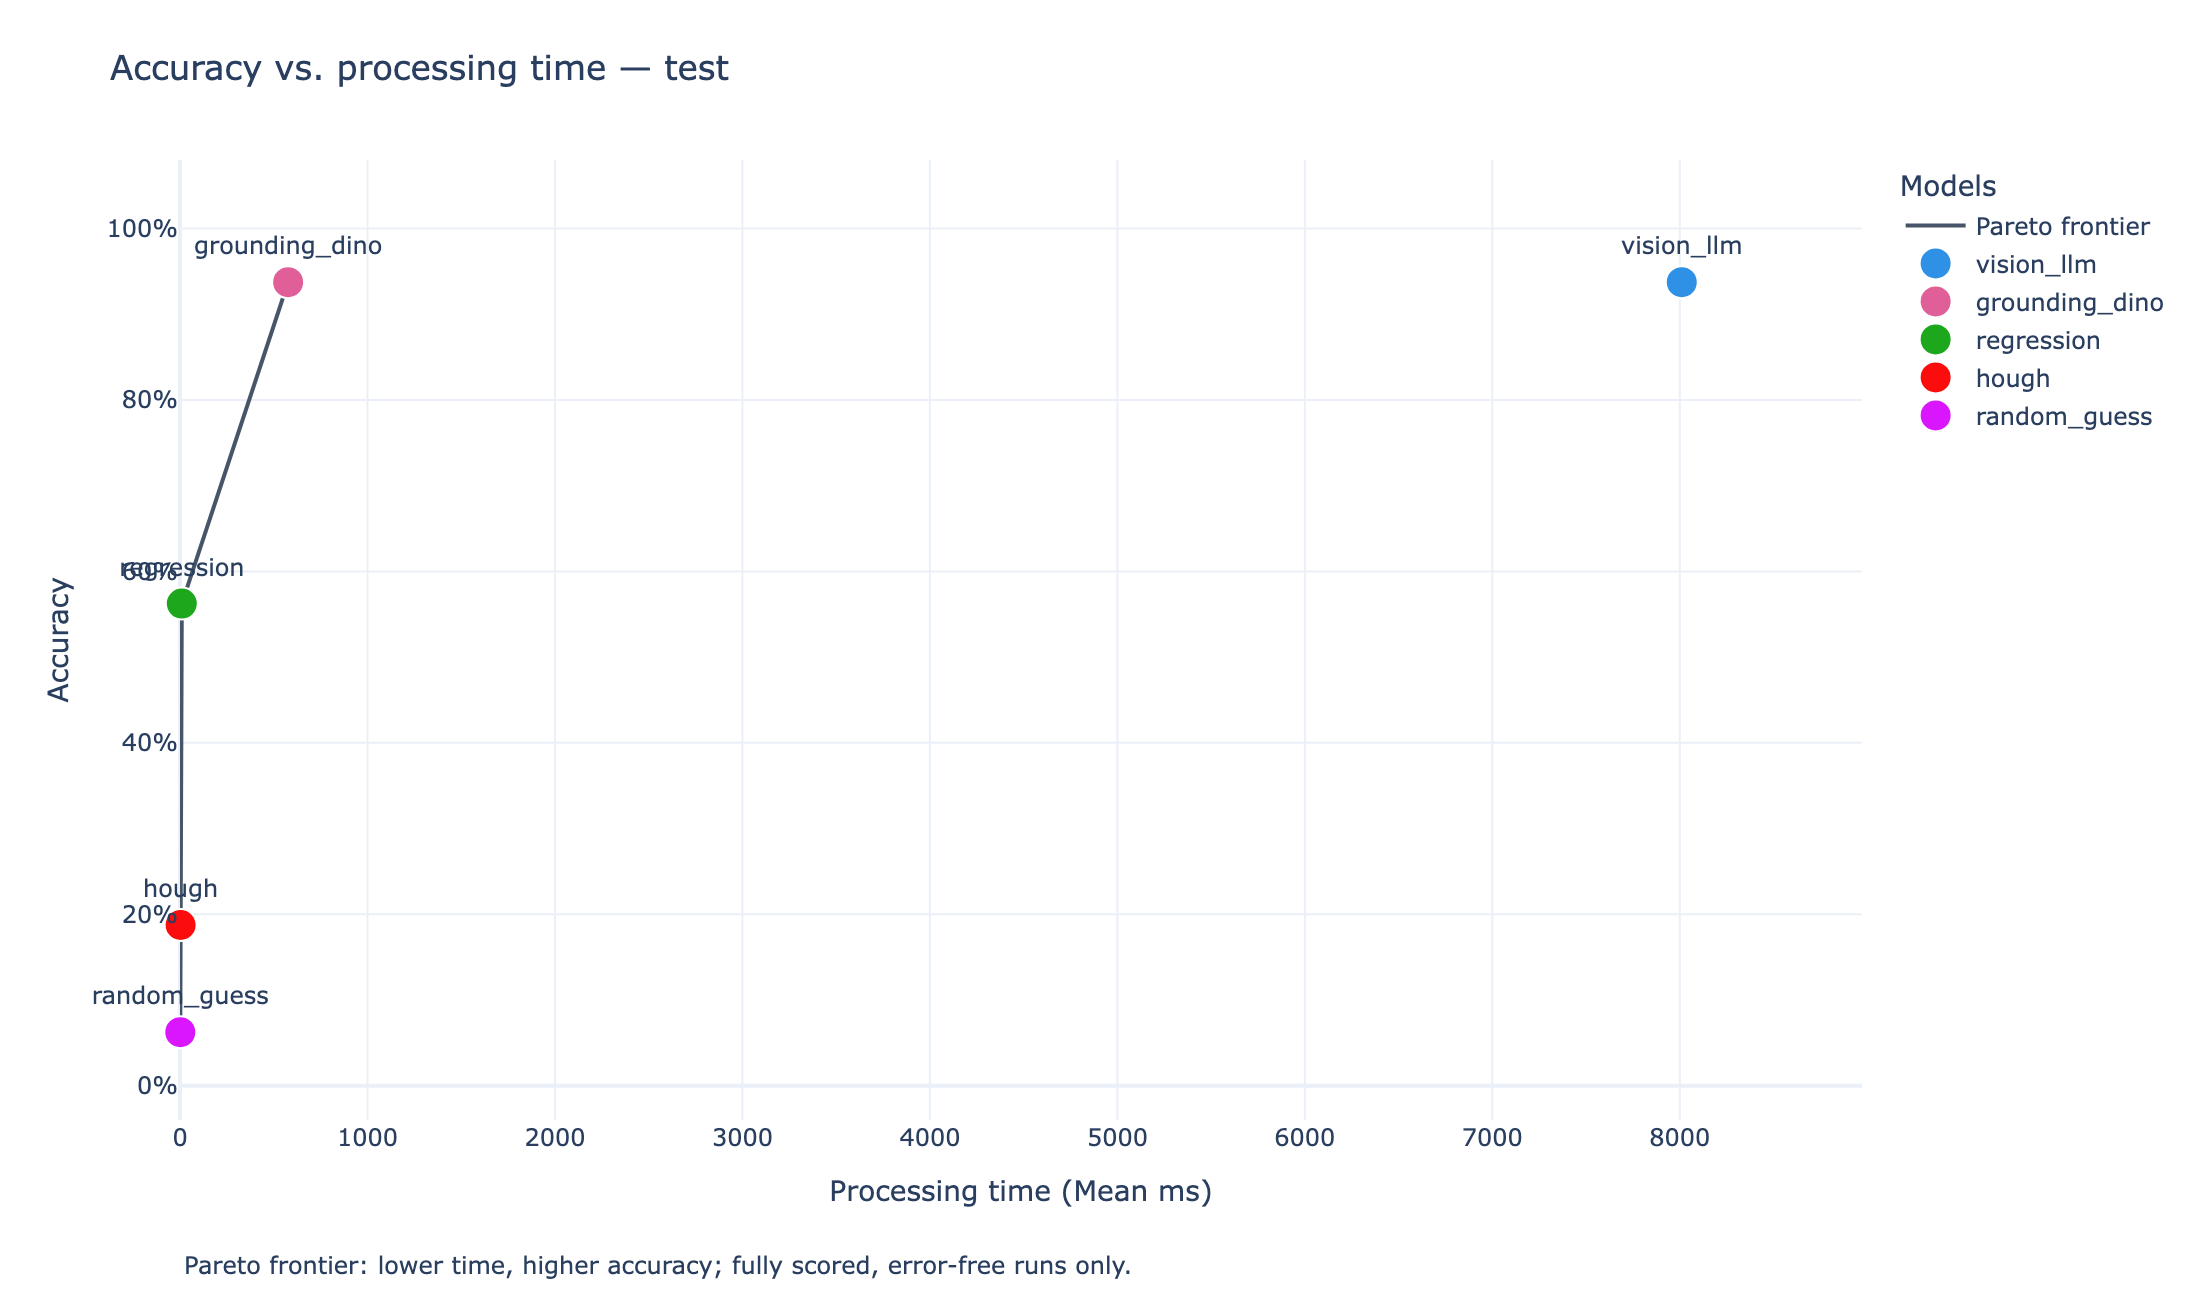
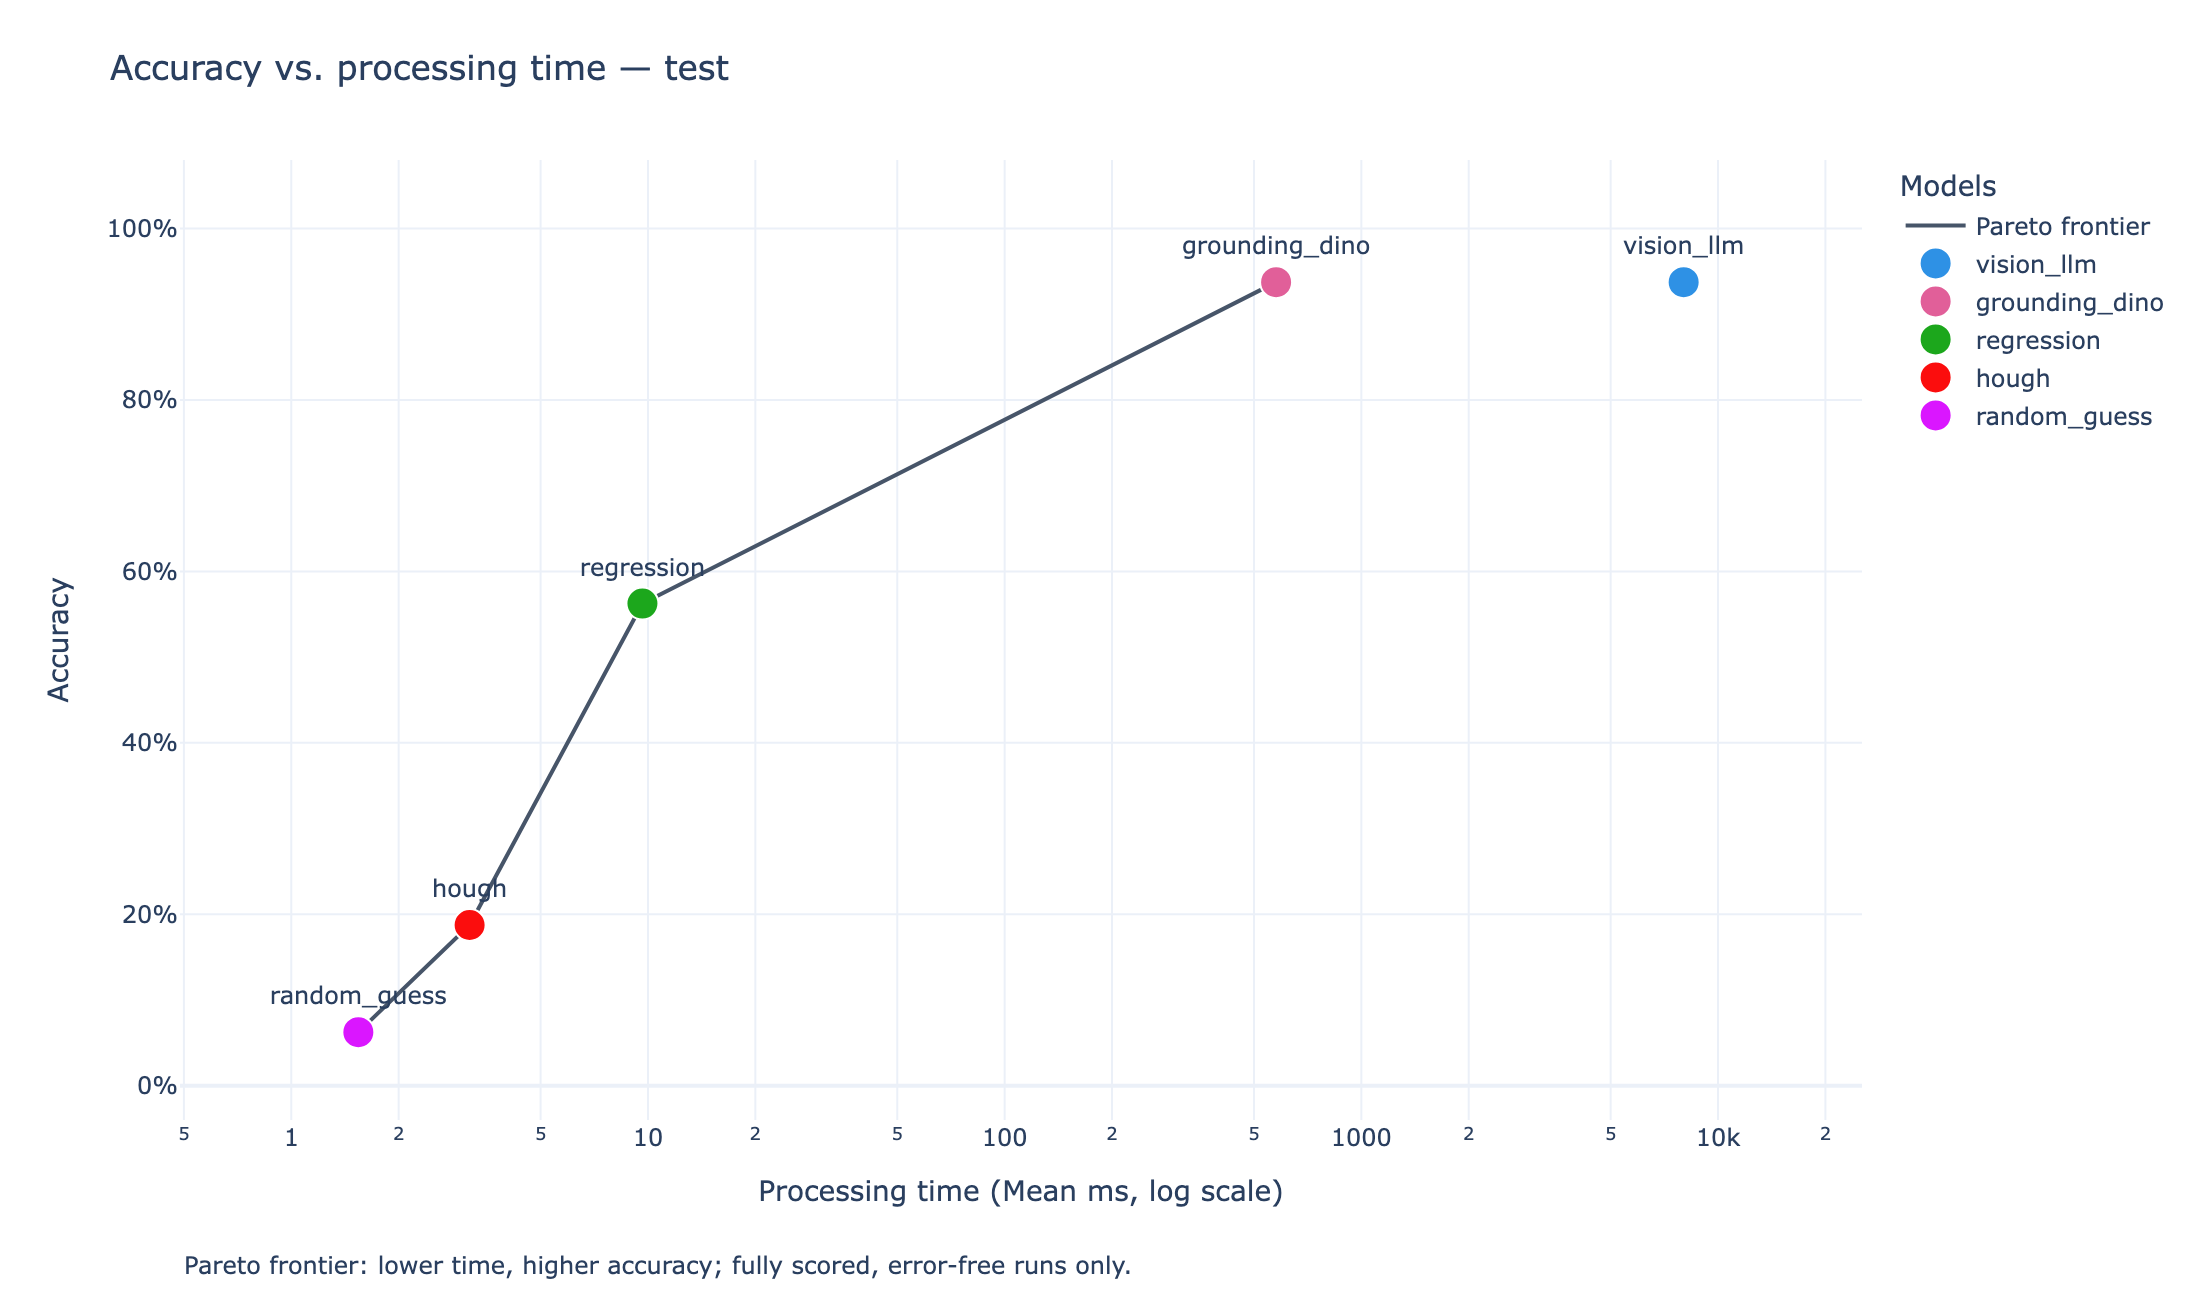
[#18] use a log-scale time axis in the accuracy/time comparison
Engine times now span ~1.5 ms (random_guess) to ~8 s (vision_llm), so a
linear axis crushed the four local engines against zero and overlapped
their labels with the tick labels. The x-axis is now logarithmic with
half a decade of padding on each side, and the README PNG is regenerated.

diff --git a/benchmark/reporting.py b/benchmark/reporting.py
@@ -50,8 +50,10 @@ def accuracy_time_figure(summary):
     frontier = pareto_front(rows)
     figure = go.Figure()
     colors = qualitative.Dark24
-    x_max = max((r["mean_ms"] for r in plotted), default=1)
-    x_max = x_max * 1.12 if x_max else 1
+    # Times span ~1 ms to several seconds, so a log axis keeps every engine readable;
+    # the range is in log10 units with half a decade of padding on each side.
+    times = [r["mean_ms"] for r in plotted if r["mean_ms"] > 0]
+    x_range = [math.log10(min(times)) - 0.5, math.log10(max(times)) + 0.5] if times else [-1, 1]
 
     if frontier:
         # Models with identical metrics share a vertex, but retain their circles.
@@ -82,7 +84,7 @@ def accuracy_time_figure(summary):
     figure.update_layout(
         title=f"Accuracy vs. processing time — {escape(summary['split'])}",
         template="plotly_white",
-        xaxis={"title": "Processing time (Mean ms)", "range": [0, x_max],
+        xaxis={"title": "Processing time (Mean ms, log scale)", "type": "log", "range": x_range,
                "ticklen": 5, "tickcolor": "#64748b"},
         yaxis={"title": "Accuracy", "range": [-0.04, 1.08], "tickformat": ".0%",
                "ticklen": 5, "tickcolor": "#64748b"},

diff --git a/tests/benchmark/test_reporting.py b/tests/benchmark/test_reporting.py
@@ -49,7 +49,10 @@ class ReportingTests(unittest.TestCase):
             self.assertEqual(list(model.x), [expected["mean_ms"]])
             self.assertEqual(list(model.y), [expected["accuracy"]])
         self.assertIn("partial", models[-1].name)
-        self.assertEqual(figure.layout.xaxis.title.text, "Processing time (Mean ms)")
+        self.assertEqual(figure.layout.xaxis.title.text, "Processing time (Mean ms, log scale)")
+        self.assertEqual(figure.layout.xaxis.type, "log")
+        low, high = figure.layout.xaxis.range
+        self.assertTrue(10 ** low < min(r["mean_ms"] for r in rows if r["mean_ms"]) and 10 ** high > 20)
         self.assertEqual(figure.layout.yaxis.title.text, "Accuracy")
         self.assertEqual(figure.layout.yaxis.tickformat, ".0%")
         self.assertIn("failed", figure.layout.annotations[0].text)

diff --git a/docs/benchmarking.md b/docs/benchmarking.md
@@ -19,7 +19,7 @@ Incomplete results sort after completed results and include errors. Each run sav
   `expected`, `accuracy` (a fraction from 0 to 1), `mae`, `mean_ms`, `total_seconds`,
   `cached`, and `failed`, plus errors, loading time, and run provenance.
 - `results/<split>_accuracy_vs_time.html`: an interactive Plotly chart with
-  processing time (Mean ms) on the x-axis, accuracy displayed as a percentage on the
+  processing time (Mean ms) on a log-scale x-axis, accuracy displayed as a percentage on the
   y-axis, and a labeled circle for each model. Hover for the table metrics. A line joins
   Pareto-optimal models in increasing time order: no other eligible model is at least
   as fast and as accurate with a strict improvement in one metric. Colored guide lines
